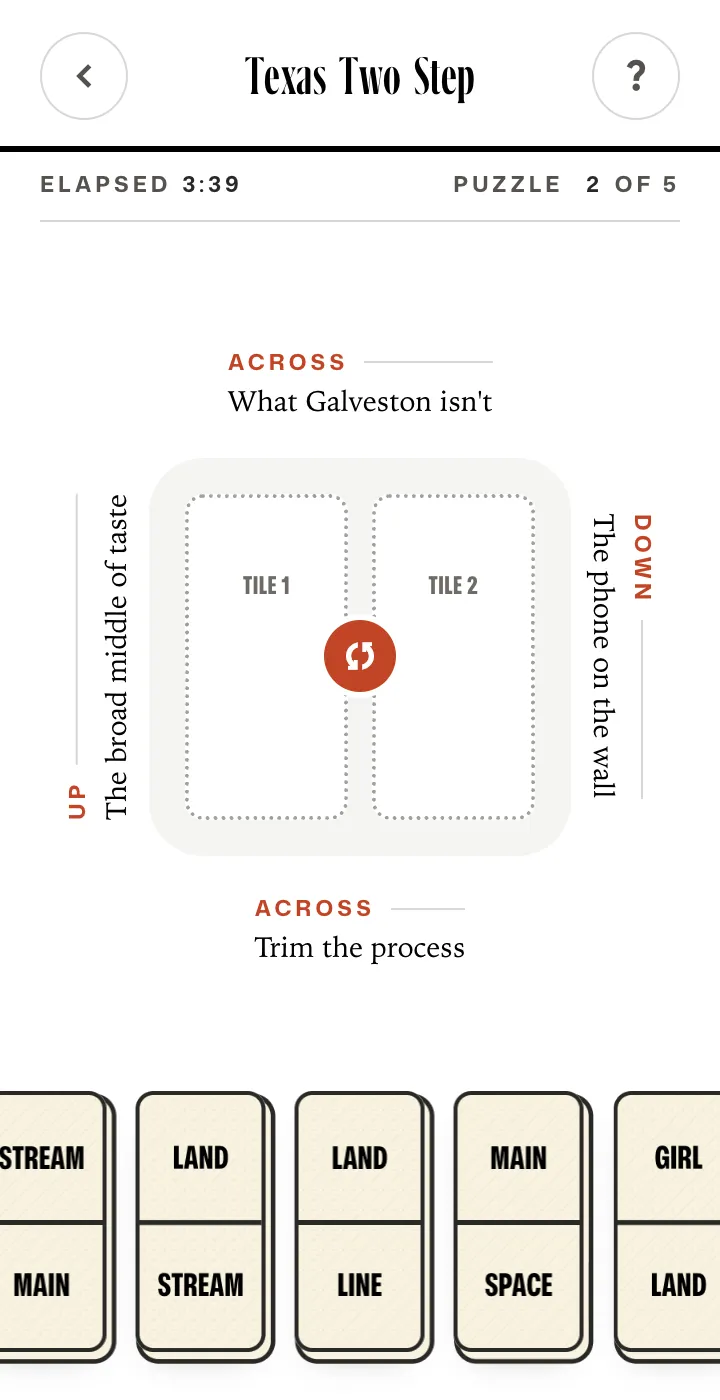
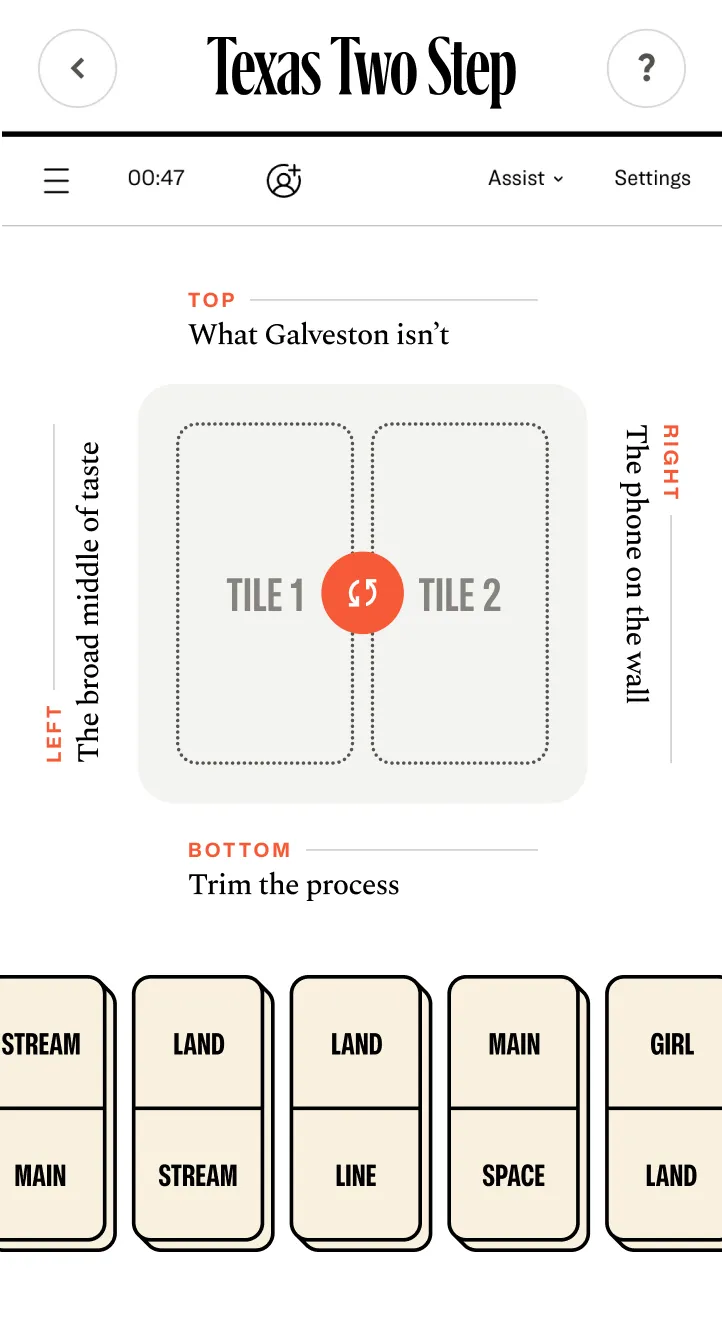
Refresh the first three Two Step screenshots; retone the Links page
Swap in the updated two-step-1/2/3 captures and set the Links page theme
color to #17835A.

diff --git a/forsale/links/index.html b/forsale/links/index.html
@@ -53,7 +53,7 @@
       --panel:#F7F8FA;
       --surface:#FFFFFF;
       --strip:#F4F4F1;
-      --green:#4C9A2A;
+      --green:#17835A;
       --green-ink:#FFFFFF;
       --radius:18px;
       --maxw:1180px;
@@ -66,7 +66,7 @@
       --panel:#131519;
       --surface:#171B21;
       --strip:#101215;
-      --green:#4C9A2A;
+      --green:#17835A;
       --green-ink:#FFFFFF;
     }
     *{box-sizing:border-box}
